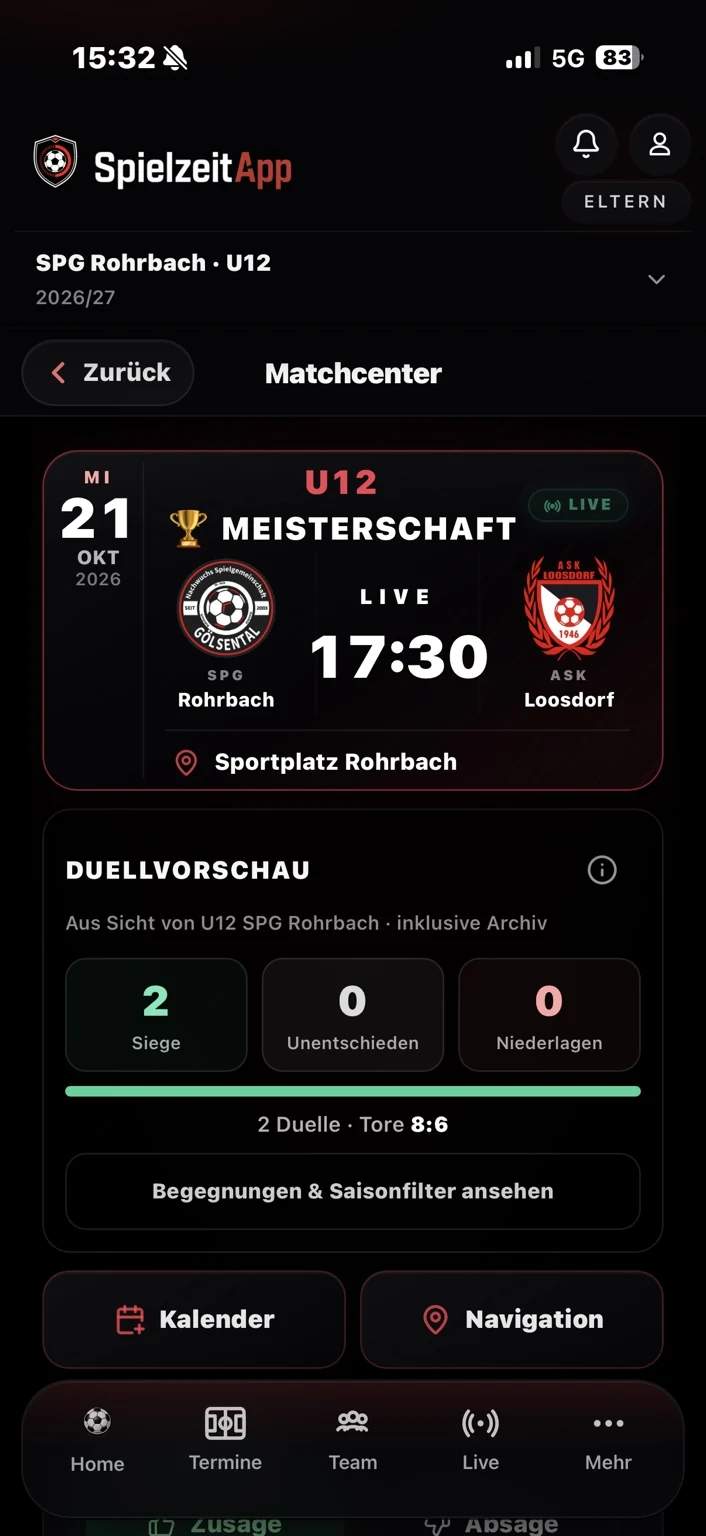
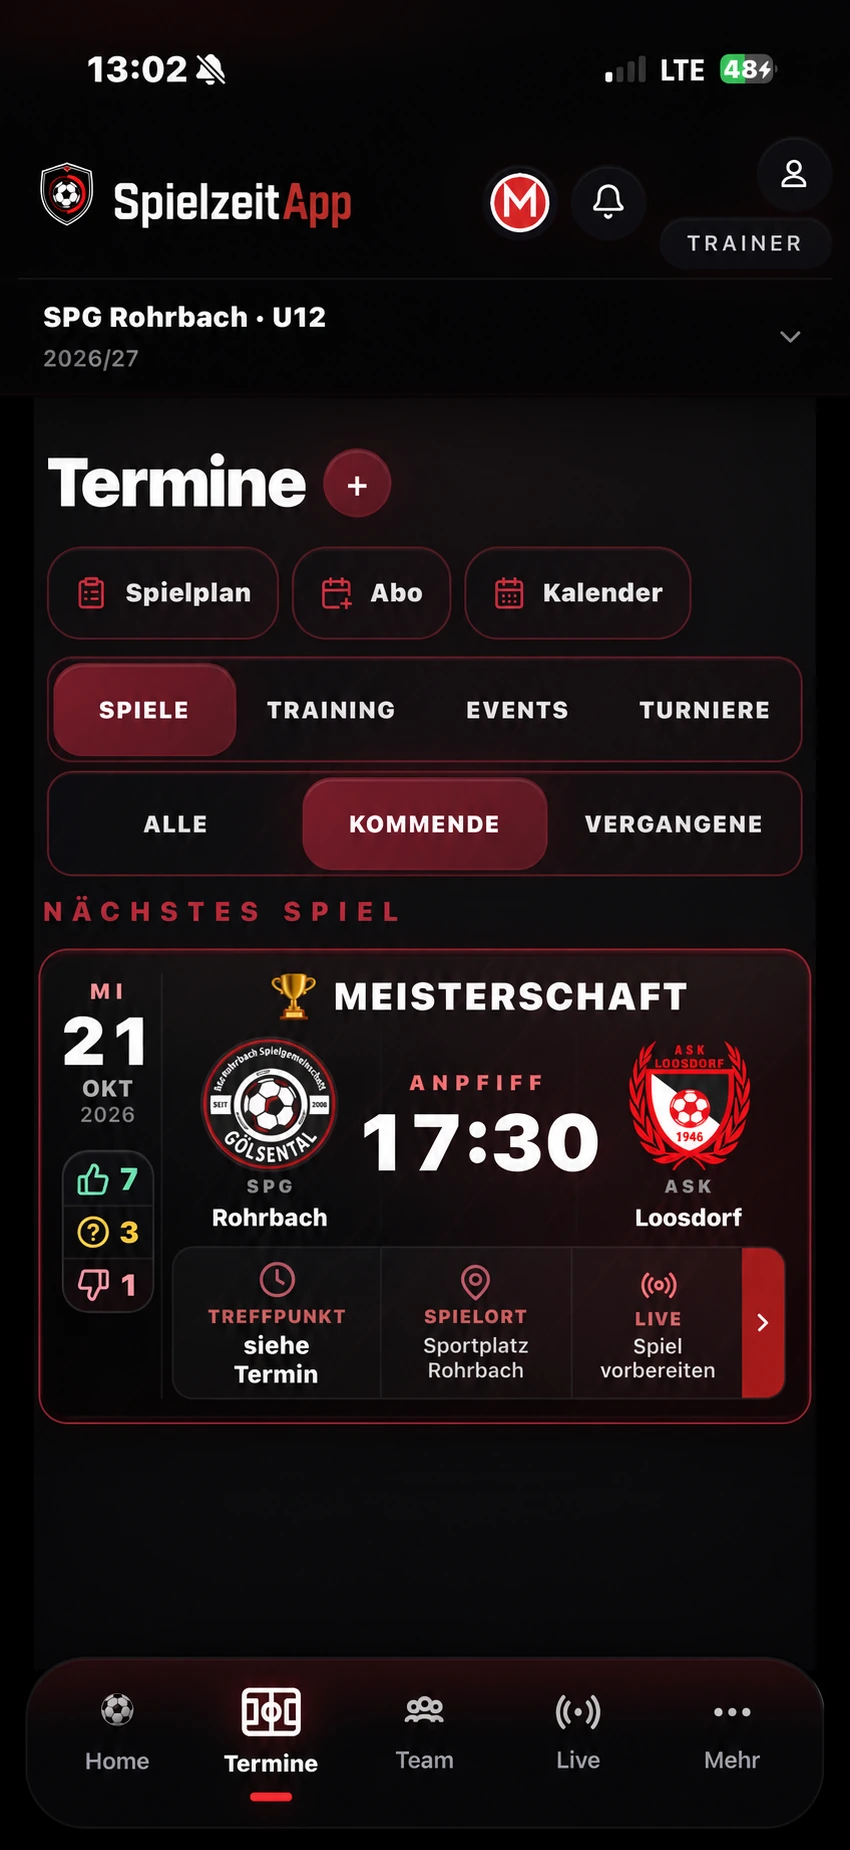
Use Termine view of Rohrbach Loosdorf fixture in landing page hero

diff --git a/public/landingpage.html b/public/landingpage.html
@@ -254,7 +254,7 @@ fatal: /dev/null: '/dev/null' is outside repository at '/workspace/scratch/03ac0
             <picture>
               <img src="/landingpage-assets/rohrbach-match-preparation.webp" width="1536" height="1024" fetchpriority="high" alt="Trainer und Trainerin besprechen das Spiel mit der Mannschaft am Sportplatz Rohrbach; Familien sitzen auf der roten Tribüne">
             </picture>
-            <div class="hero-phone-preview"><img src="/landingpage-assets/rohrbach-loosdorf-preview.webp" width="706" height="1536" alt="SpielzeitApp: U12 SPG Rohrbach gegen ASK Loosdorf, 21. Oktober 2026 um 17:30 Uhr am Sportplatz Rohrbach"></div>
+            <div class="hero-phone-preview"><img src="/landingpage-assets/rohrbach-loosdorf-preview.webp?v=termine-loosdorf" width="706" height="1536" alt="SpielzeitApp: U12 SPG Rohrbach gegen ASK Loosdorf, 21. Oktober 2026 um 17:30 Uhr am Sportplatz Rohrbach"></div>
           </div>
           <div class="hero-signature">
             <div class="hero-signature-brand"><img class="hero-signature-logo" src="spielzeitapp-icon.png" alt=""><img class="hero-signature-wordmark" src="spielzeitapp-wordmark-transparent.png" alt="SpielzeitApp"></div>
